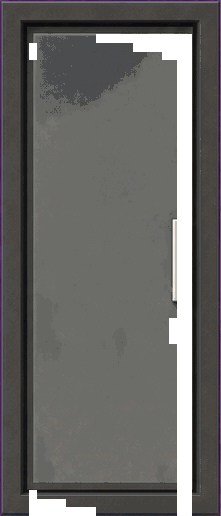
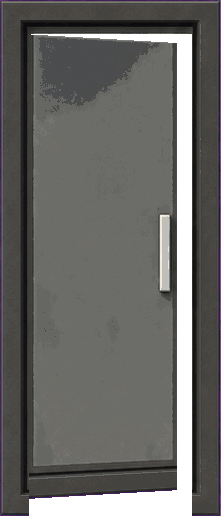
Drzwi v7: uchylone skrzydlo drzwi jednoskrzydlowych w stylu v7 (perspektywa ze skrzydla v7, takze master)

diff --git a/wspolne/drzwi/README.md b/wspolne/drzwi/README.md
@@ -13,6 +13,6 @@ Pliki (`<typ>` = `2skrz` / `1skrz`, `<stan>` = `closed` / `open`):
 
 `doorway` / `changedRegion` i maska otwarcia bez zmian względem v6 (`drzwi_kanon_v7.json`). Master nie jest dokładnym kwadratem (GPT narysował drzwi ok. 10% wyższe), rozmiar gry jest skalowany do dokładnie 60×60 / 30×60.
 
-Pochodzenie: gpt-image-2 (quality high) przerysował drzwi v6 ×8 w pełnym kolorze, prompt: zachowaj projekt, szare szkło z plamami, kwadrat 1:1.
+Pochodzenie: gpt-image-2 (quality high) przerysował drzwi v6 ×8 w pełnym kolorze, prompt: zachowaj projekt, szare szkło z plamami, kwadrat 1:1. Uchylone skrzydło drzwi jednoskrzydłowych (`open`) to skrzydło v7 przekształcone perspektywicznie kodem (zawiasy po lewej), bez AI.
 
 ![v7](podglad.png)
